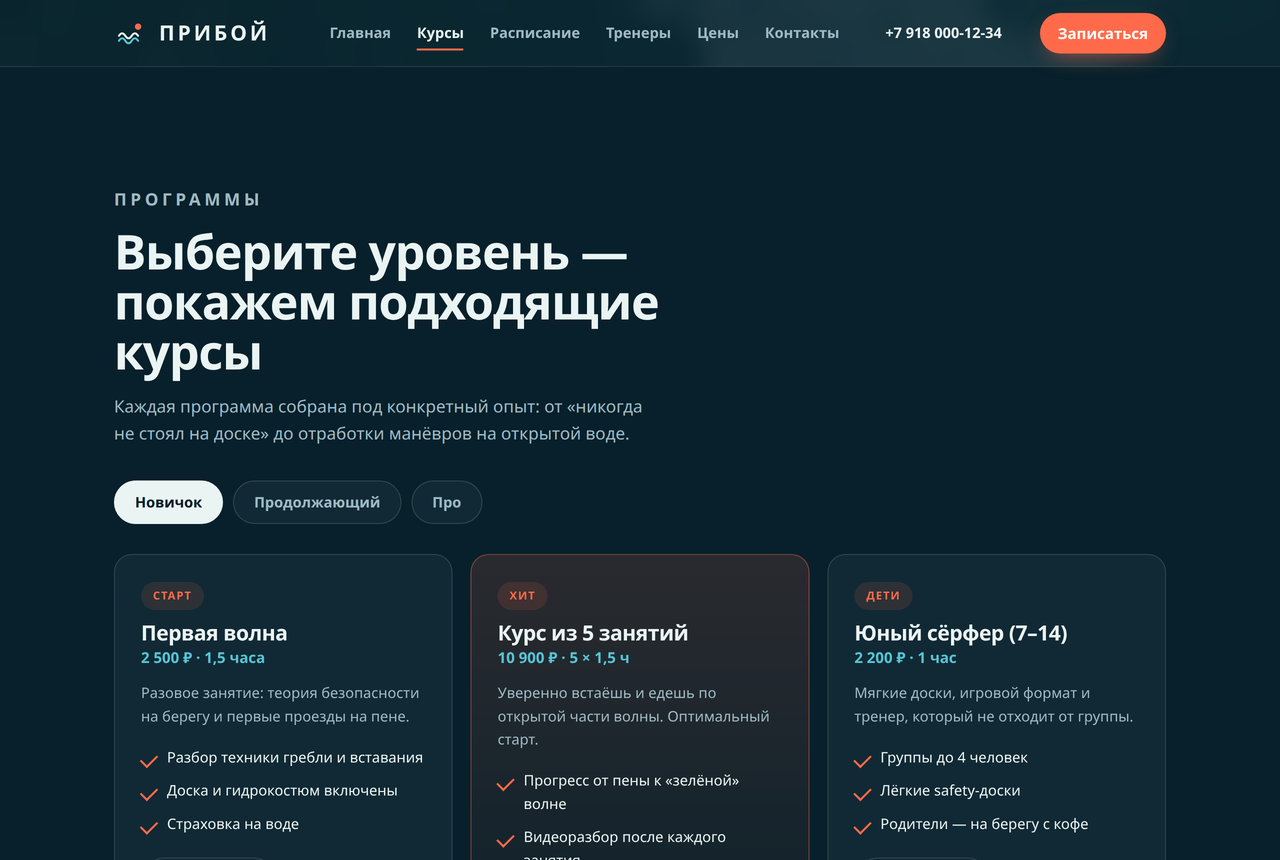
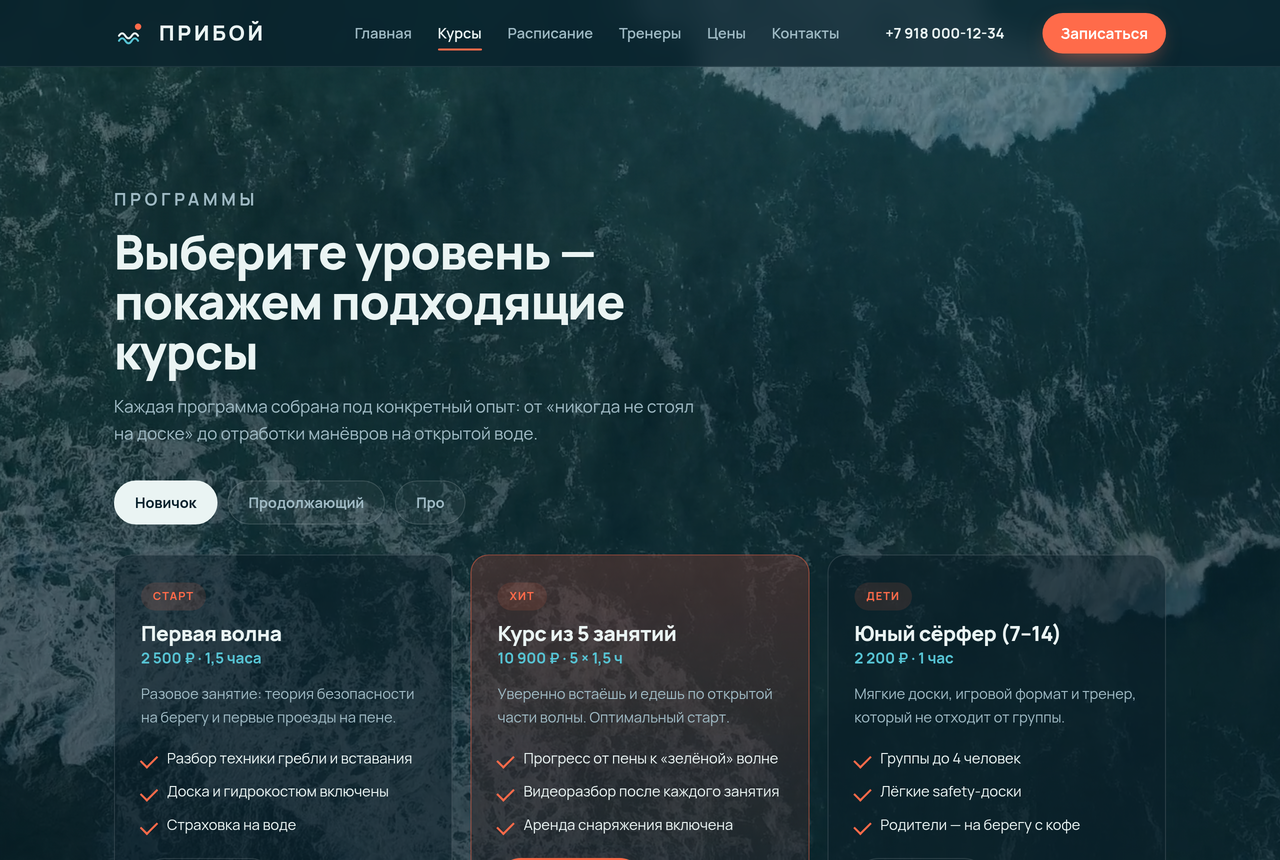
ПРИБОЙ: show the video background on every tab, not just Главная
Make section panels transparent so the fixed ocean video shows through
on all tabs; darken the tint and switch cards/containers to frosted
glass for readability. Refresh the README screenshots.

Claude-Session: https://claude.ai/code/session_01U5XWnAh8A9df2uQjXruh7o

diff --git a/priboy/index.html b/priboy/index.html
@@ -47,8 +47,8 @@ p{margin:0}
 .bg-video{position:absolute;inset:0;width:100%;height:100%;object-fit:cover}
 .bg-tint{position:fixed;inset:0;z-index:-1;
   background:
-   radial-gradient(120% 90% at 80% 0%,rgba(87,196,212,.18),transparent 55%),
-   linear-gradient(180deg,rgba(7,32,43,.62) 0%,rgba(7,32,43,.72) 46%,var(--deep) 92%)}
+   radial-gradient(120% 90% at 80% 0%,rgba(87,196,212,.16),transparent 55%),
+   linear-gradient(180deg,rgba(6,26,35,.56) 0%,rgba(6,26,35,.72) 100%)}
 
 /* ——— прелоадер ——— */
 .loader{position:fixed;inset:0;z-index:200;display:grid;place-items:center;background:var(--deep);
@@ -102,8 +102,8 @@ p{margin:0}
 
 /* ——— секции ——— */
 section{position:relative}
-.sec{padding:var(--gap) 0;background:var(--deep);border-top:1px solid var(--line-soft)}
-.sec.alt{background:#092833}
+.sec{padding:var(--gap) 0;background:transparent;border-top:1px solid var(--line-soft)}
+.sec.alt{background:rgba(0,0,0,.16)}
 .sec-head{max-width:60ch}
 .sec-head h2{font-size:clamp(28px,4.4vw,48px);margin-top:14px}
 .sec-head p{margin-top:16px;color:var(--mist);font-size:17px}
@@ -135,8 +135,8 @@ section{position:relative}
 .grid{display:grid;gap:18px}
 .grid-3{grid-template-columns:repeat(3,1fr)}
 .grid-2{grid-template-columns:repeat(2,1fr)}
-.card{background:var(--card);border:1px solid var(--line);border-radius:18px;padding:26px}
-.card.hl{background:linear-gradient(180deg,rgba(255,107,74,.14),rgba(255,107,74,.02));border-color:rgba(255,107,74,.4)}
+.card{background:rgba(9,29,39,.5);backdrop-filter:blur(4px);border:1px solid var(--line);border-radius:18px;padding:26px}
+.card.hl{background:linear-gradient(180deg,rgba(255,107,74,.2),rgba(255,107,74,.04)),rgba(9,29,39,.5);border-color:rgba(255,107,74,.45)}
 .card h3{font-size:21px}
 .card .price{font-size:15px;color:var(--aqua);font-weight:700;margin-top:2px}
 .card p{margin-top:12px;color:var(--mist);font-size:14.5px}
@@ -148,7 +148,7 @@ section{position:relative}
   color:var(--coral);background:rgba(255,107,74,.12);border-radius:999px;padding:5px 12px;margin-bottom:12px}
 
 /* расписание */
-.sched{display:flex;flex-direction:column;gap:0;border:1px solid var(--line);border-radius:18px;overflow:hidden}
+.sched{display:flex;flex-direction:column;gap:0;background:rgba(9,29,39,.5);backdrop-filter:blur(4px);border:1px solid var(--line);border-radius:18px;overflow:hidden}
 .slot{display:grid;grid-template-columns:88px 1fr auto;gap:18px;align-items:center;
   padding:18px 22px;border-bottom:1px solid var(--line-soft)}
 .slot:last-child{border-bottom:0}
@@ -161,7 +161,7 @@ section{position:relative}
 .slot.full{opacity:.6}
 
 /* тренеры */
-.coach{background:var(--card);border:1px solid var(--line);border-radius:18px;overflow:hidden}
+.coach{background:rgba(9,29,39,.5);backdrop-filter:blur(4px);border:1px solid var(--line);border-radius:18px;overflow:hidden}
 .coach .ph{aspect-ratio:1/1;display:grid;place-items:center;font-weight:800;font-size:54px;color:rgba(234,244,243,.16)}
 .coach.c1 .ph{background:linear-gradient(150deg,#0E3A4C,#12566B)}
 .coach.c2 .ph{background:linear-gradient(150deg,#123a3f,#1c6b6b)}
@@ -173,7 +173,7 @@ section{position:relative}
 
 /* форма записи */
 .book{display:grid;grid-template-columns:1.05fr .95fr;gap:34px;align-items:start}
-.book-card{background:var(--card);border:1px solid var(--line);border-radius:22px;padding:clamp(24px,3vw,36px)}
+.book-card{background:rgba(9,29,39,.55);backdrop-filter:blur(4px);border:1px solid var(--line);border-radius:22px;padding:clamp(24px,3vw,36px)}
 .field{margin-bottom:16px}
 .field label{display:block;font-size:13px;font-weight:700;letter-spacing:.04em;color:var(--mist);margin-bottom:7px}
 .field input,.field select{width:100%;font-family:inherit;font-size:15px;color:var(--foam);
@@ -219,7 +219,7 @@ section{position:relative}
 .cinfo{display:grid;grid-template-columns:1fr 1fr;gap:22px;margin-top:26px}
 .cinfo .k{font-size:12px;letter-spacing:.12em;text-transform:uppercase;color:var(--mist)}
 .cinfo .v{font-weight:700;margin-top:5px}
-.map{background:var(--card);border:1px solid var(--line);border-radius:18px;min-height:230px;
+.map{background:rgba(9,29,39,.45);backdrop-filter:blur(4px);border:1px solid var(--line);border-radius:18px;min-height:230px;
   display:grid;place-items:center;color:var(--mist);text-align:center;padding:20px;
   background-image:
     radial-gradient(circle at 30% 40%,rgba(87,196,212,.16),transparent 40%),
